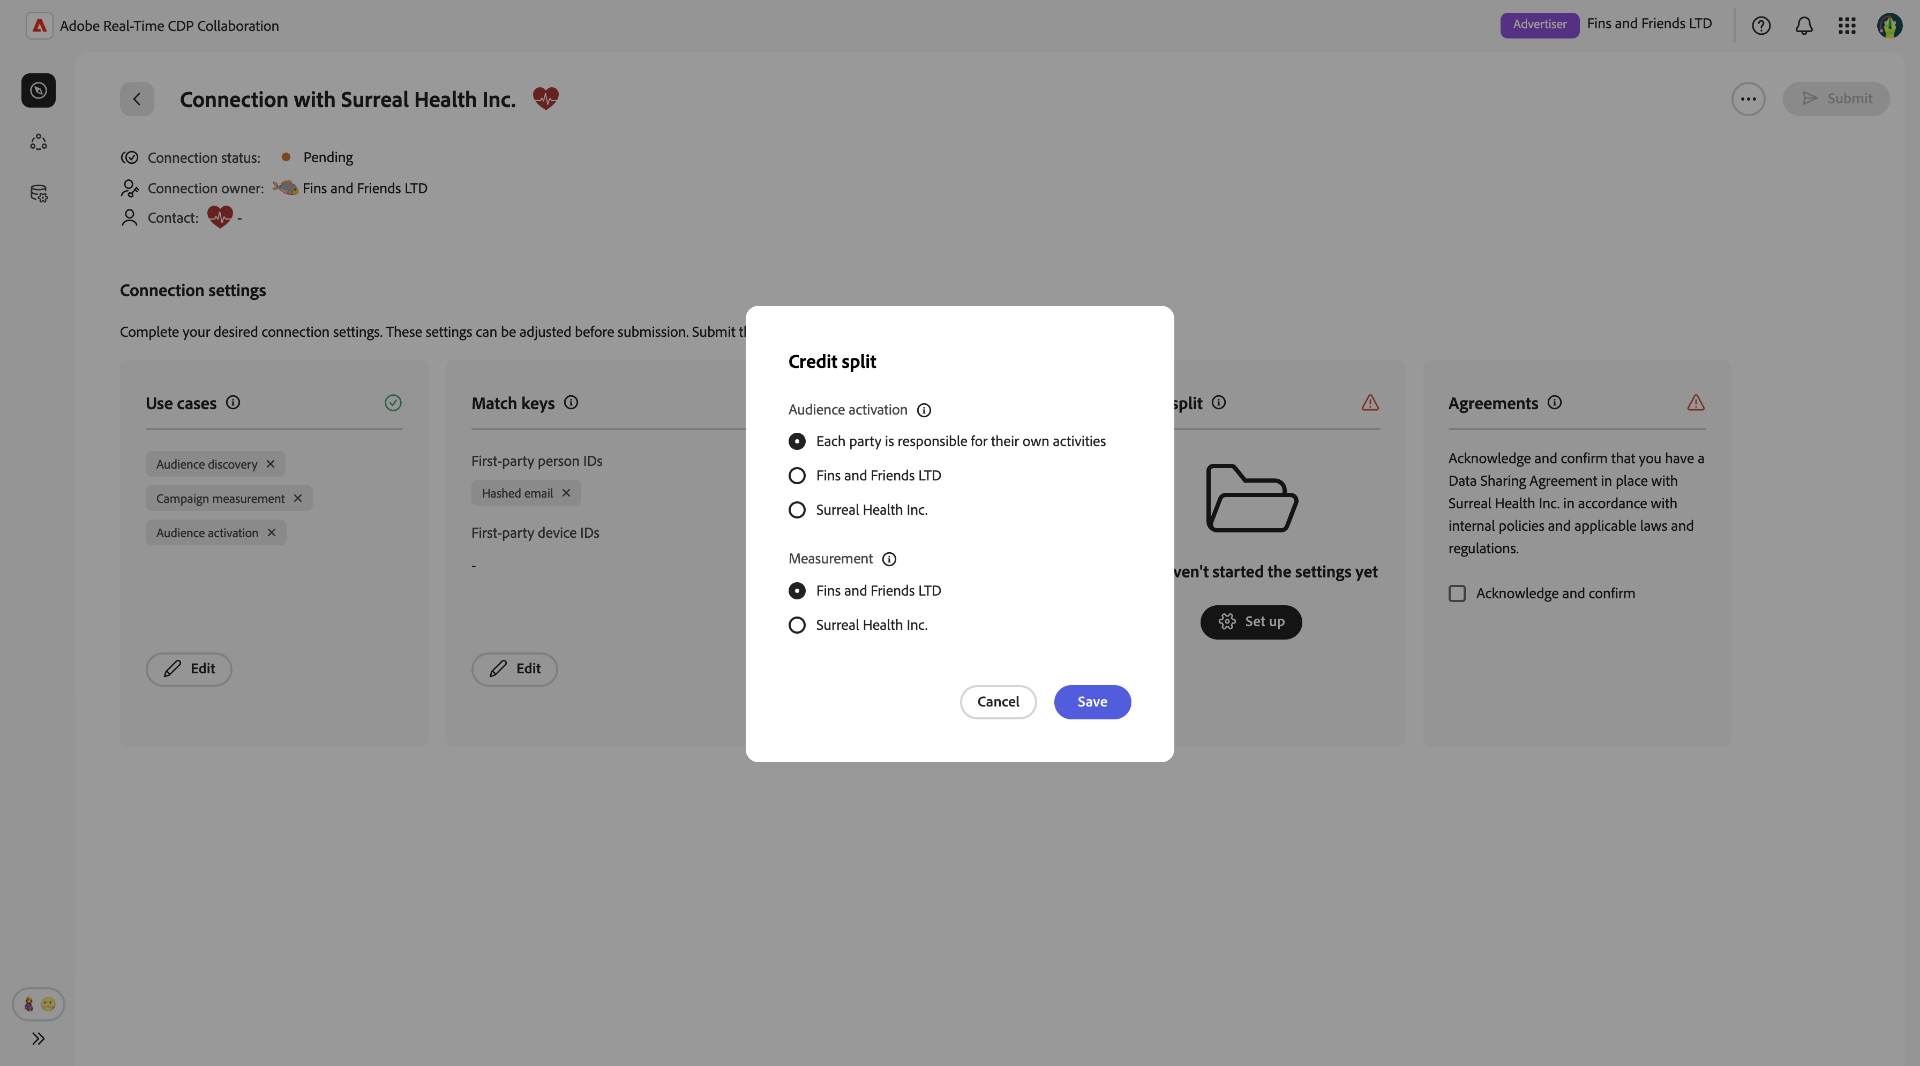
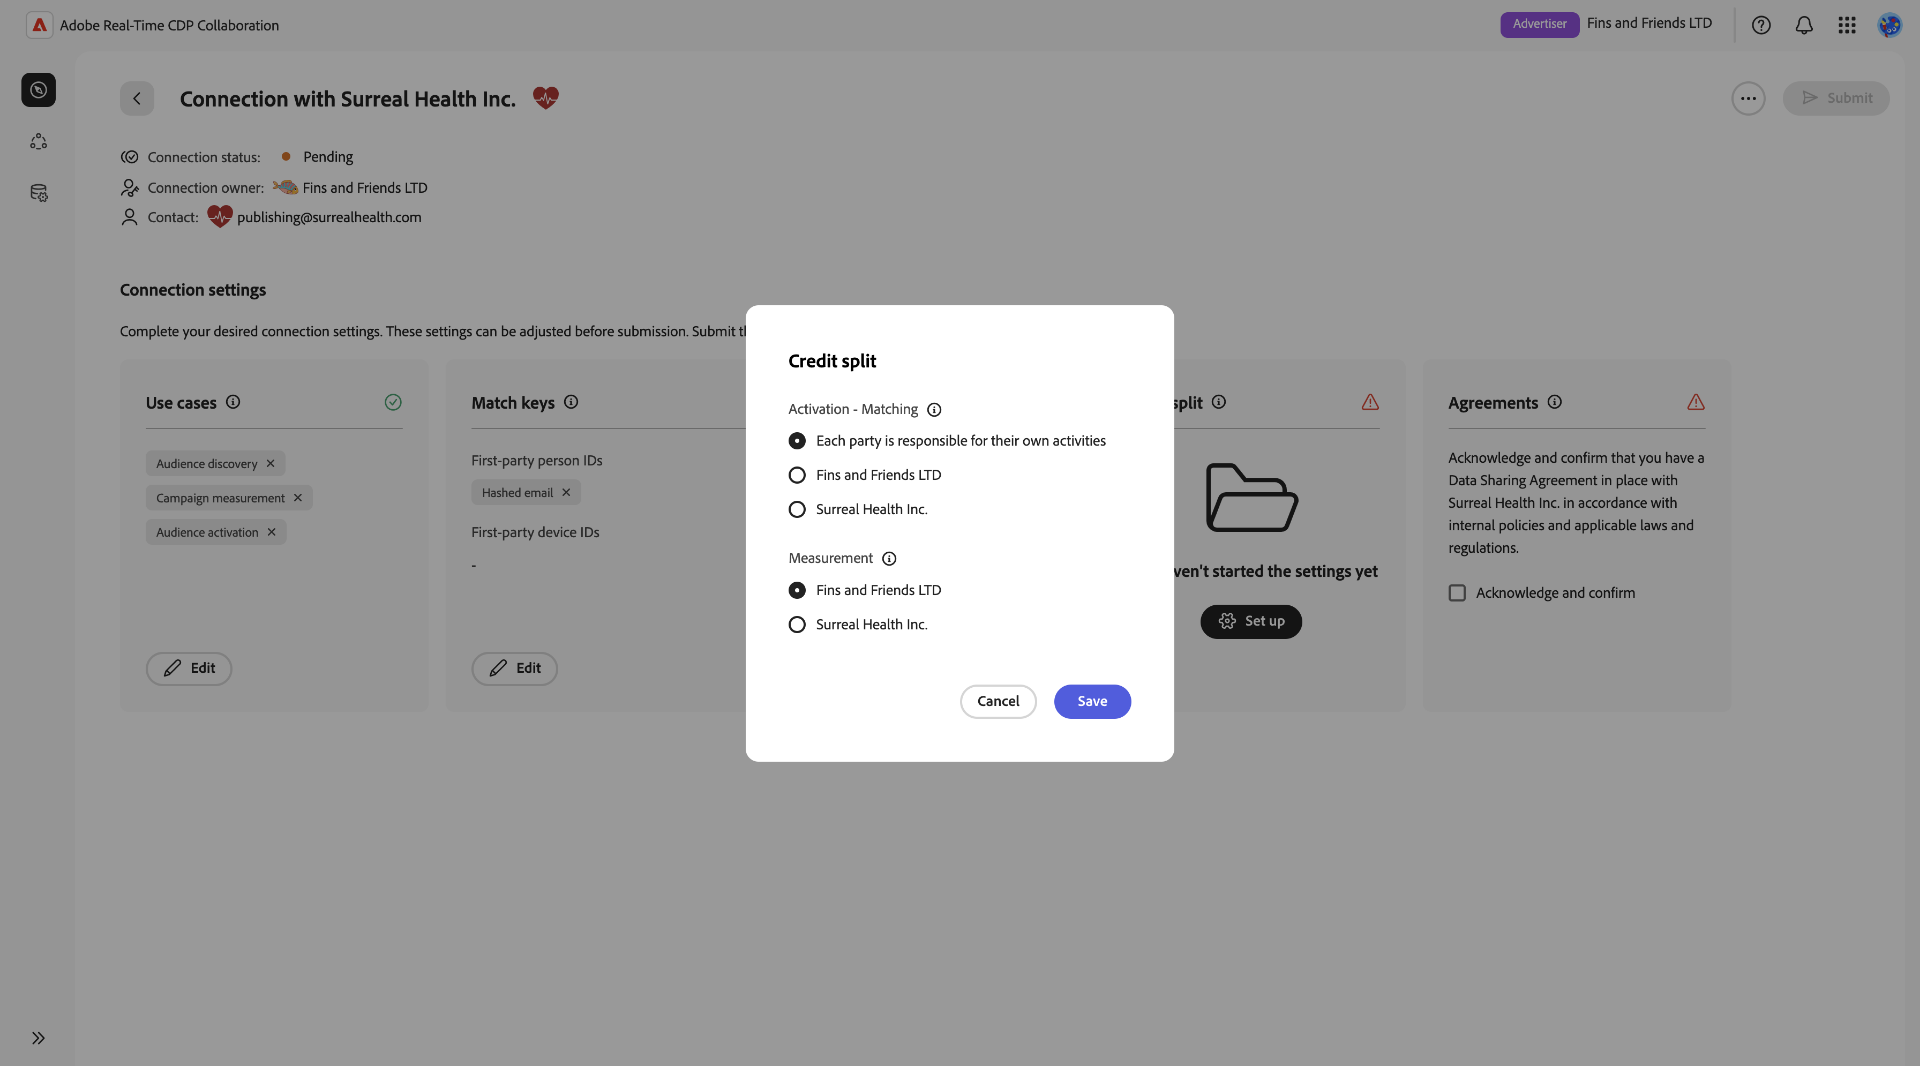
updated credit split

diff --git a/help/guide/connect/establishing-connections.md b/help/guide/connect/establishing-connections.md
@@ -113,7 +113,7 @@ Match keys are prefilled with the ones you selected while [setting up your organ
 
 +++Credit split
 
-Use the credit split section to determine which of the two collaborating parties will cover the costs for the activities. Credit split options are determined by the selected use cases for the connection. While the **[!UICONTROL Measurement]** use case requires one party to cover the costs, the **[!UICONTROL Audience activation]** use case gives an additional option to have each party cover their own costs. For information on the breakdown of costs, read the [credit activity types](/help/guide/setup/my-activity.md#types-of-activities) guide.
+Use the credit split section to determine which of the two collaborating parties will cover the costs for the activities. Credit split options are determined by the selected use cases for the connection. While the **[!UICONTROL Measurement]** use case requires one party to cover the costs, the **[!UICONTROL Activation - Matching]** use case gives an additional option to have each party cover their own costs. For information on the breakdown of costs, read the [credit activity types](/help/guide/setup/my-activity.md#types-of-activities) guide.
 
 >[!NOTE]
 >
